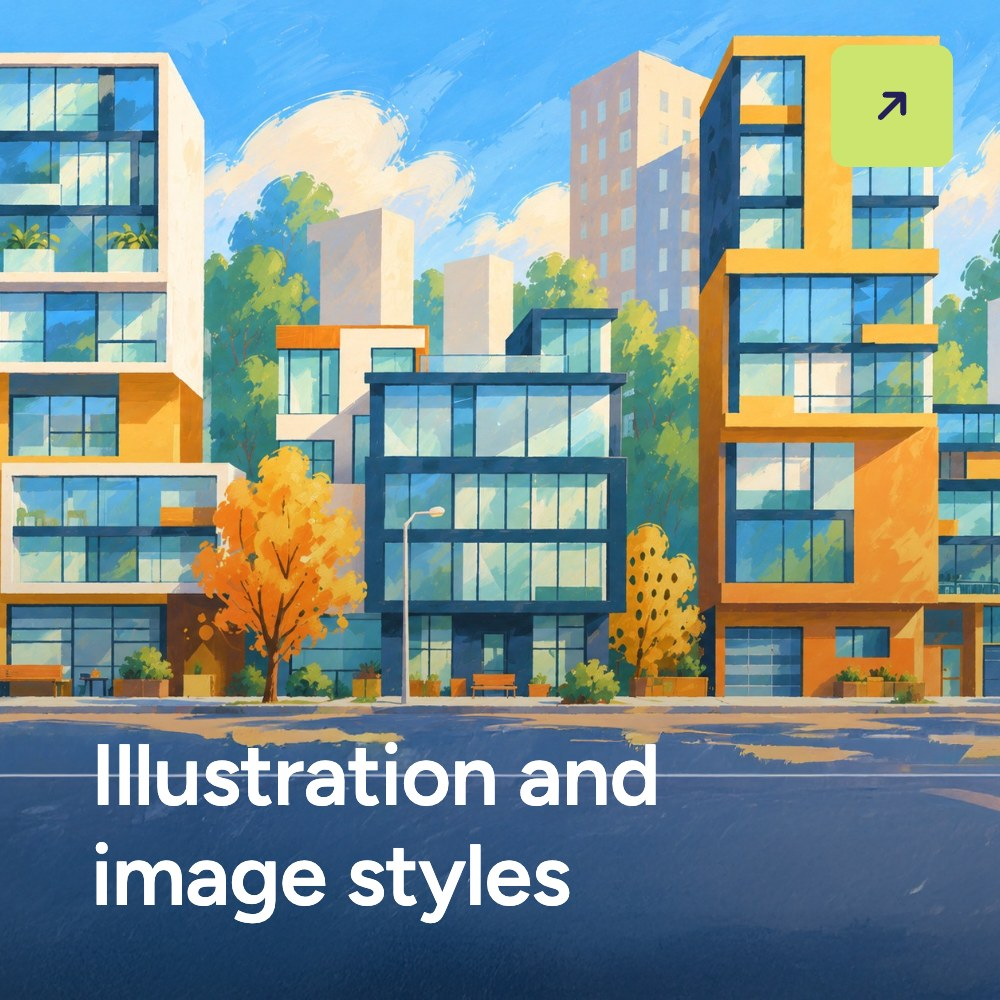
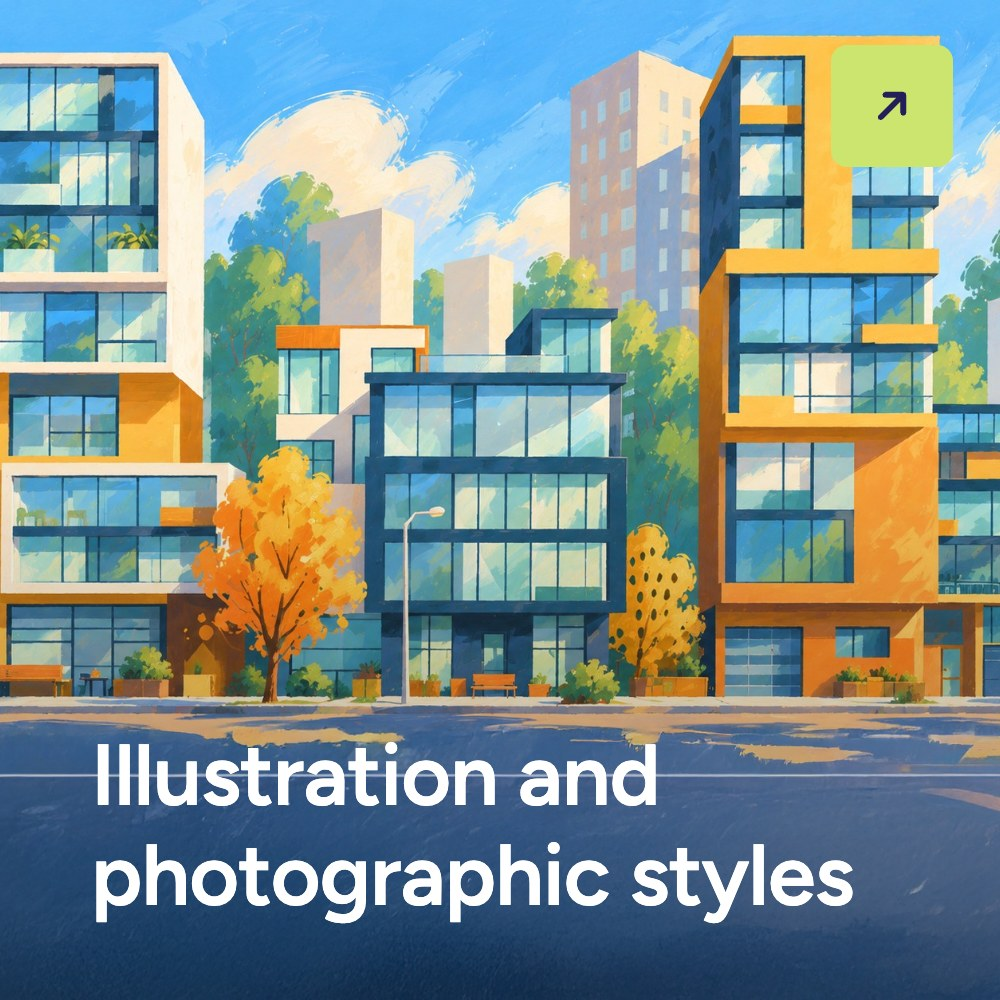
AECORN Realty draft: card text Illustration and photographic styles

Changed region(s): [[0.093, 0.837, 0.868, 0.93]]

diff --git a/design/Project - AECORN Realty.dc.html b/design/Project - AECORN Realty.dc.html
@@ -179,7 +179,7 @@
   <div style="display:grid;grid-template-columns:{{ col.three }};gap:24px;margin-top:24px;">
     <video ref="{{ videoRef }}" src="img/aecorn-icon-loop.mp4" aria-label="AECORN icon building up, collapsing and building again" autoplay="{{ true }}" loop="{{ true }}" muted="{{ true }}" playsinline="{{ true }}" style="display:block;width:100%;aspect-ratio:1/1;object-fit:cover;background:#231F59;"></video>
     <img src="img/aecorn-typography.jpg" alt="AECORN typography: Figtree and Lora families" style="display:block;width:100%;aspect-ratio:1/1;object-fit:cover;">
-    <img src="img/aecorn-styles-card.jpg" alt="AECORN card: Illustration and image styles, over a painted street of modern buildings" style="display:block;width:100%;aspect-ratio:1/1;object-fit:cover;object-position:left center;">
+    <img src="img/aecorn-styles-card.jpg" alt="AECORN card: Illustration and photographic styles, over a painted street of modern buildings" style="display:block;width:100%;aspect-ratio:1/1;object-fit:cover;object-position:left center;">
   </div>
 
   <div style="display:grid;grid-template-columns:repeat(12,minmax(0,1fr));gap:24px;padding:{{ col.secPad }};">
